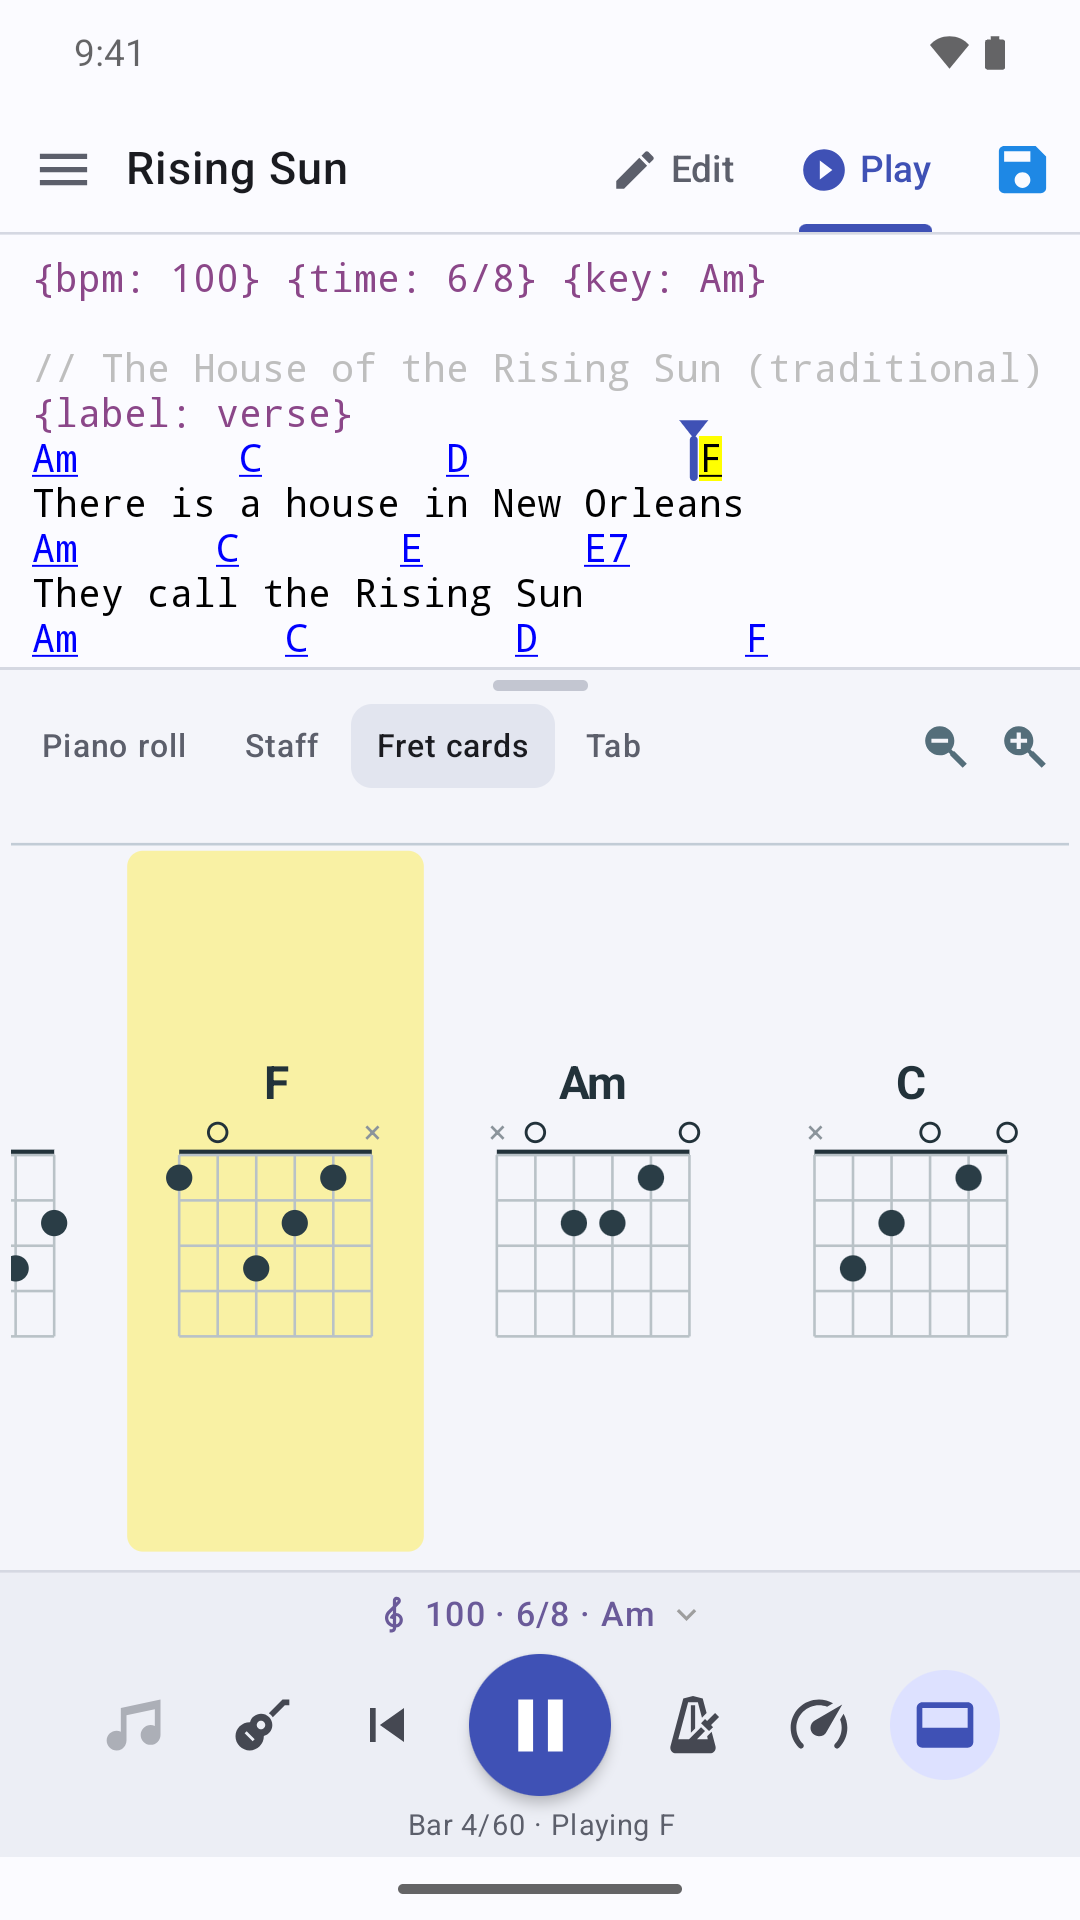
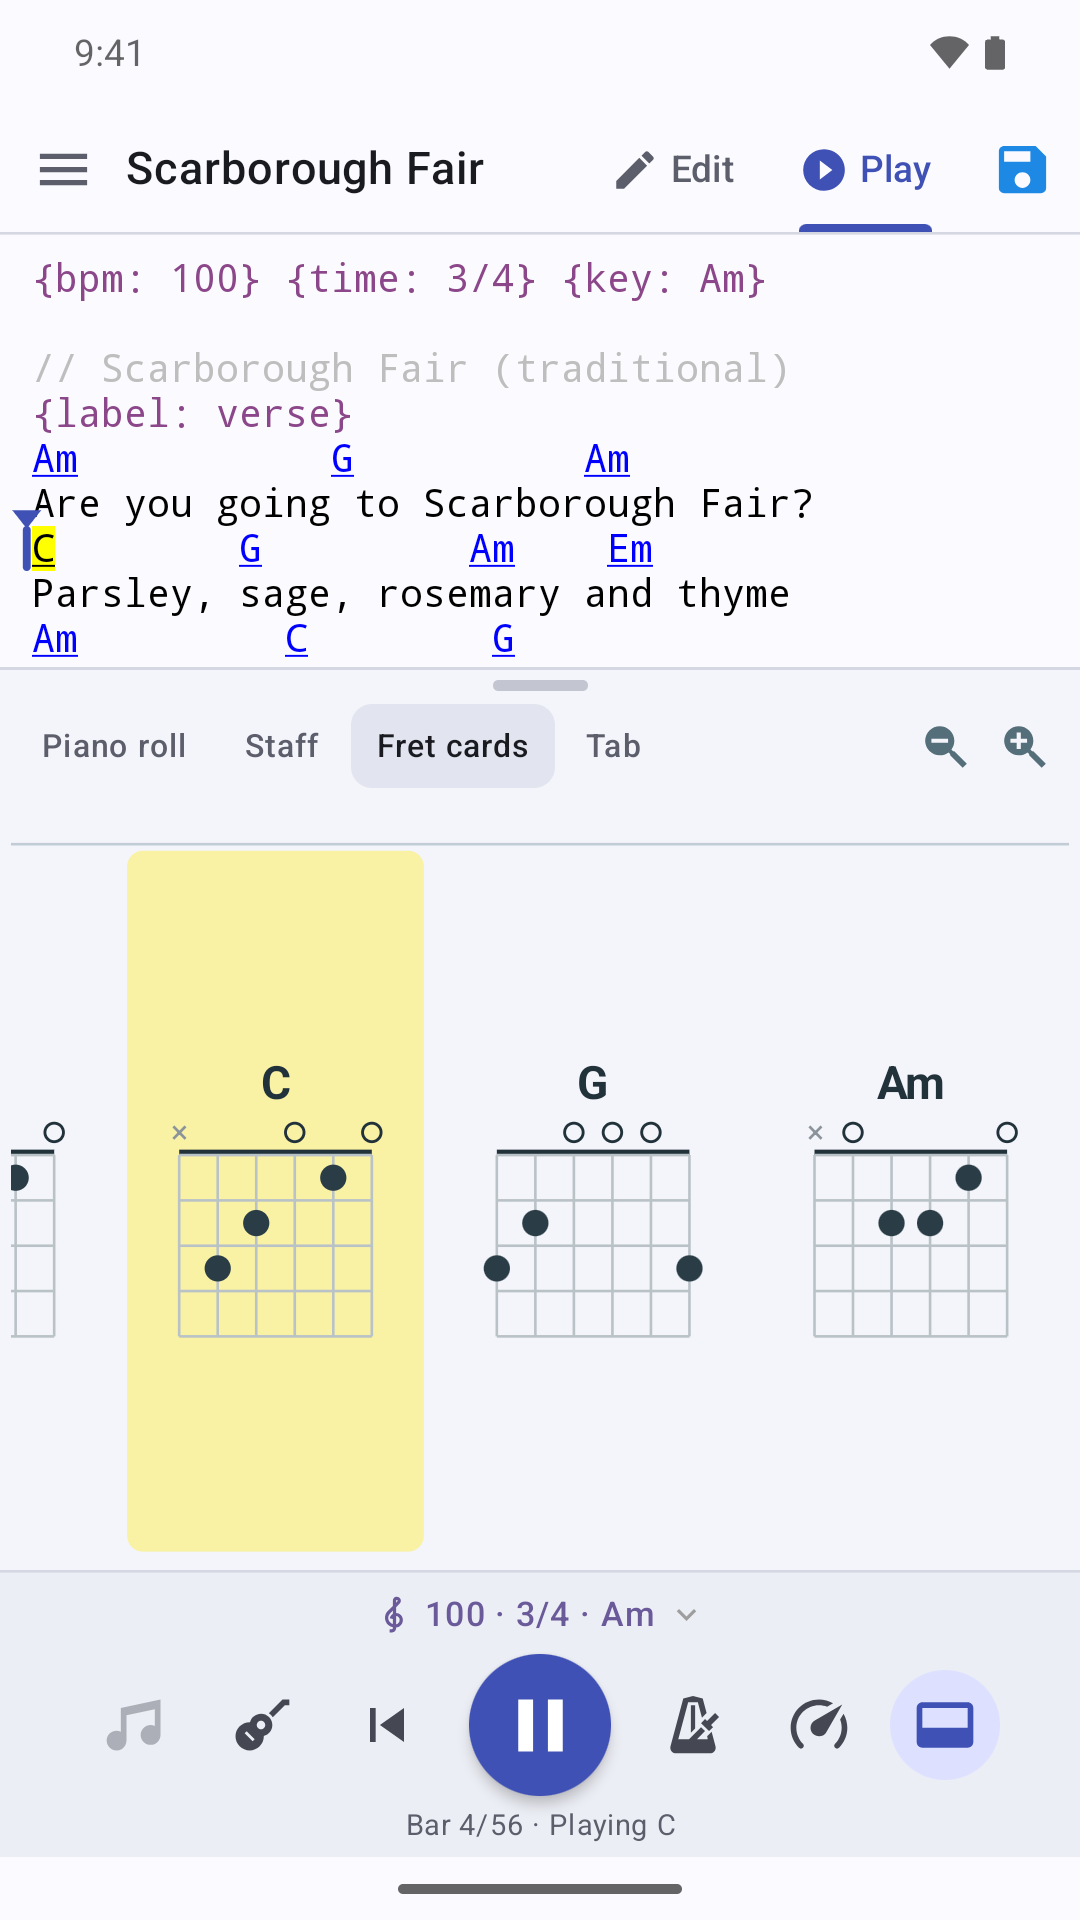
Play screenshots: Scarborough Fair (traditional text) instead of the Animals' Rising Sun, clean Transpose background

diff --git a/packaging/store/play/screenshots/README.md b/packaging/store/play/screenshots/README.md
@@ -3,9 +3,8 @@
 Generated on the emulator by `android/tools/help_screenshots.py` from
 `android/tools/store_shots.json` (see "Google Play listing screenshots" in
 `android/tools/HELP_SHOTS.md`). Don't edit the PNGs by hand. Full-colour RGB
-PNGs, no callouts; the demo status bar (9:41) is on. Songs: The House of the
-Rising Sun (traditional) and Amazing Grace (John Newton, 1779), both public
-domain.
+PNGs, no callouts; the demo status bar (9:41) is on. Songs: Scarborough Fair (traditional
+verses only) and Amazing Grace (John Newton, 1779), both public domain.
 
 Regenerate everything (about 6 minutes):
 
@@ -28,10 +27,10 @@ One shot: add `--only p-03-staff` (shot names are in `--list`; the prefix is
 
 | File | Shows |
 |---|---|
-| `01-play-fret-cards.png` | Play tab, Rising Sun, guitar fret cards, mid-playback (chord F lit, playhead in the text) |
+| `01-play-fret-cards.png` | Play tab, Scarborough Fair, guitar fret cards, mid-playback (chord F lit, playhead in the text) |
 | `02-edit.png` | Edit tab: ribbon (Insert, Transpose, Identify, AB/Do, Convert), directives, chord highlighting |
 | `03-staff.png` | Amazing Grace on the grand staff while playing (Em lit) |
-| `04-piano-roll.png` | Rising Sun on the piano roll while playing |
+| `04-piano-roll.png` | Scarborough Fair on the piano roll while playing |
 | `05-voicing.png` | Voicing sheet: piano, guitars, ukulele, ensembles |
 | `06-dark-play.png` | Dark theme, Play tab on the tab view |
 | `07-transpose.png` | Transpose dialog (+2 semitones) over Amazing Grace |
